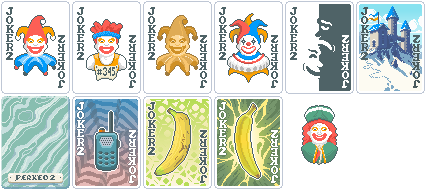
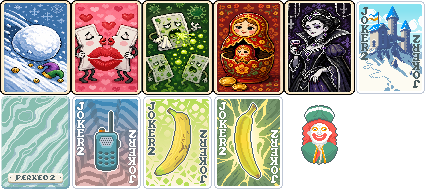
add Matryoshka joker, rebalance rarities, fix probability API and kissing card reroll

diff --git a/CLAUDE.md b/CLAUDE.md
@@ -1,0 +1,38 @@
+# CLAUDE.md
+
+This file provides guidance to Claude Code (claude.ai/code) when working with code in this repository.
+
+## What this is
+
+A Steamodded (SMODS) mod for Balatro that adds custom Jokers. Pure Lua, no build step, no tests — the mod is loaded by the Steamodded mod loader when Balatro launches.
+
+## Install / run
+
+There is no build or test command. To test changes, the mod must be present in Balatro's Mods directory and the game restarted:
+
+- Mods dir (Steam/Proton): `/home/m/.local/share/Steam/steamapps/compatdata/2379780/pfx/drive_c/users/steamuser/AppData/Roaming/Balatro/Mods/`
+- After editing files in this repo, copy the changed files into `<Mods dir>/Chumbalatro/` (deploy = `cp -r Chumbalatro.lua chumbalatro.json assets <Mods dir>/Chumbalatro/`). Do this after every change — the game loads from the Mods dir, not this repo.
+- Runtime logs from the lovely injector land in `<Mods dir>/lovely/log/` — check the newest file there for Lua errors after a crash or a joker not loading.
+- Installed Steamodded lives at `<Mods dir>/smods/` (its `lsp_def/` and `src/` are the authoritative API reference for the exact installed version).
+
+## Structure
+
+- `chumbalatro.json` — mod manifest (id `CHUMBA`, prefix `chmb`, requires Steamodded >= 1.0.0~ALPHA). `main_file` points at `Chumbalatro.lua`.
+- `Chumbalatro.lua` — the entire mod: the sprite atlas, all `SMODS.Joker` definitions, shared helper functions, and vanilla-function hooks. New jokers go in this file.
+- `joker_template.lua` — boilerplate skeleton for a new `SMODS.Joker`; copy from it, it is not loaded by the game.
+- `assets/1x/` and `assets/2x/Chumbalatro.png` — sprite atlas, 71x95 px per card (2x is double). Joker `pos = {x, y}` indexes into this grid.
+
+## How the code is organized
+
+`Chumbalatro.lua` has three layers, in order:
+
+1. **Joker definitions** (`SMODS.Joker { ... }`). Each has `loc_txt`, `config.extra` (tunable numbers), `loc_vars` (feeds `#1#`-style template vars into the description), and `calculate(self, card, context)` (the effect, gated on context flags like `context.individual`, `context.end_of_round`, `context.cardarea`).
+2. **Helpers**: `with_deck_effects`, `multiply_values`, `deep_copy`, `format_number` — used by Snowball to scale a neighboring joker's `ability` table. `multiply_values` deliberately skips non-value keys (`id`, `colour`, nominals, etc.); keep that exclusion list in mind if new ability fields misbehave.
+3. **Per-round state**: `SMODS.current_mod.reset_game_globals(run_start)` rerolls the "kissing cards" (two random distinct-rank cards from the deck) at run start and each round. Per-round mod state lives on `G.GAME.current_round.*` so it persists in saves; `loc_vars` must tolerate that state being absent (collection view has no run).
+
+## Conventions
+
+- Joker keys are lowercase (`kissing`, `snowball`); Steamodded prefixes them to `j_chmb_<key>` automatically.
+- Randomness must go through `pseudorandom`/`pseudorandom_element` with a `pseudoseed('...')` so runs stay seed-deterministic.
+- Probability effects use the SMODS probability API (`SMODS.pseudorandom_probability` for the roll, `SMODS.get_probability_vars` in `loc_vars` for display) — never read `G.GAME.probabilities.normal` directly; the API is what makes Oops! All 6s and probability-modifying jokers apply.
+- Deferred/animated effects are queued via `G.E_MANAGER:add_event(Event({...}))`; on-card feedback uses `card_eval_status_text` and `juice_up`.
